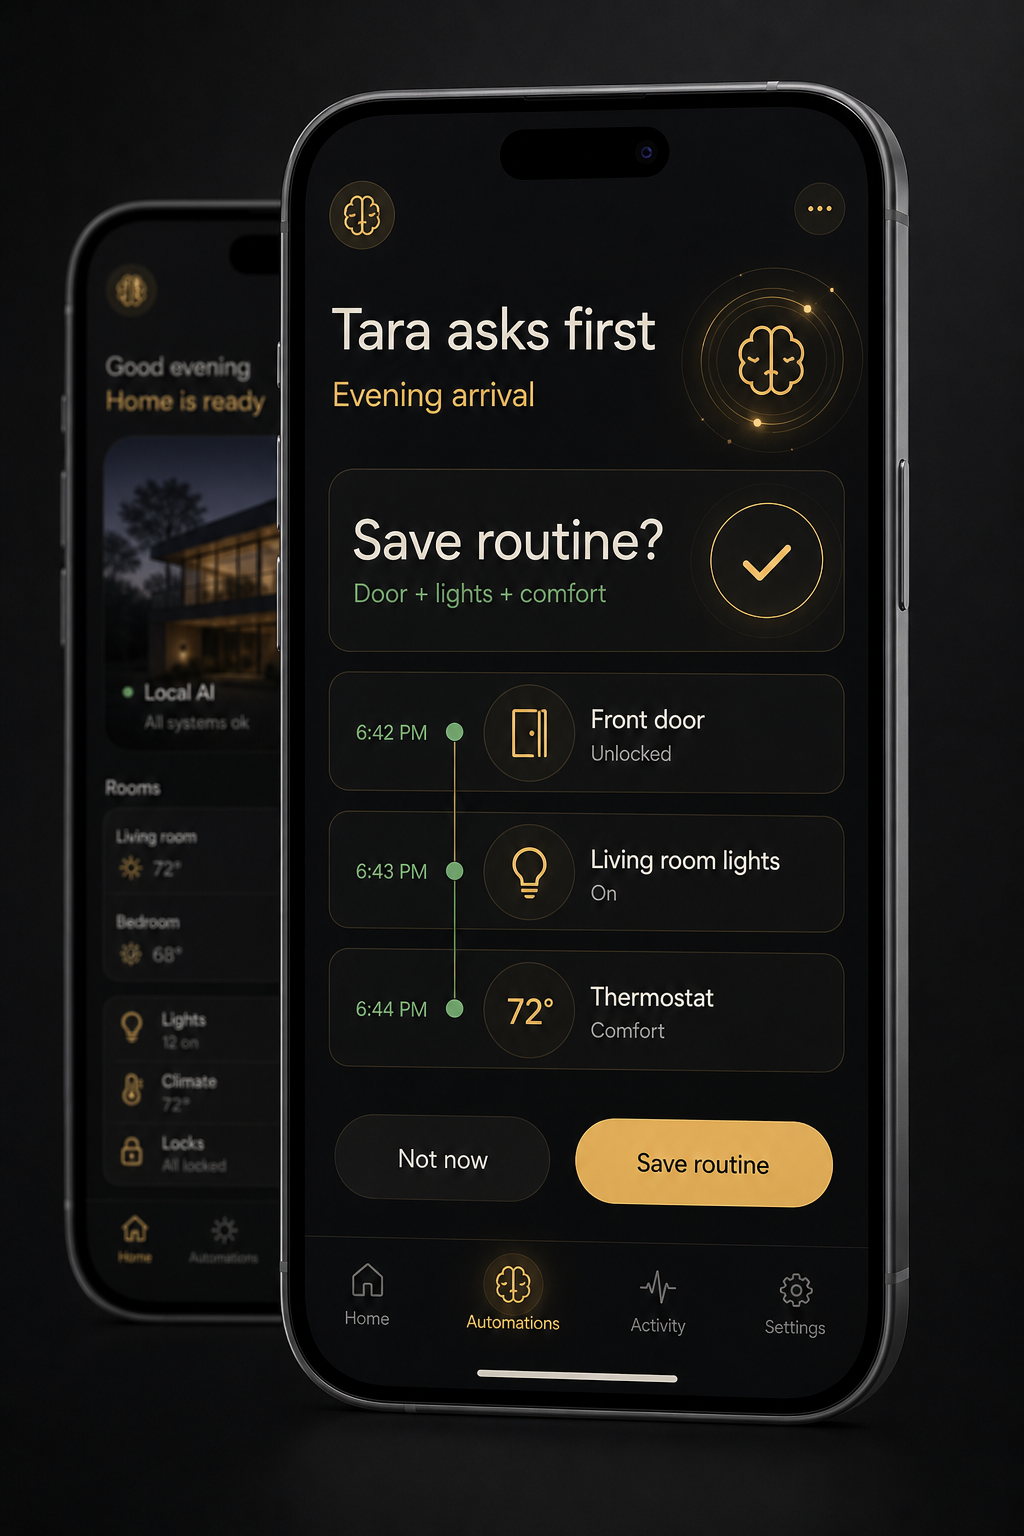
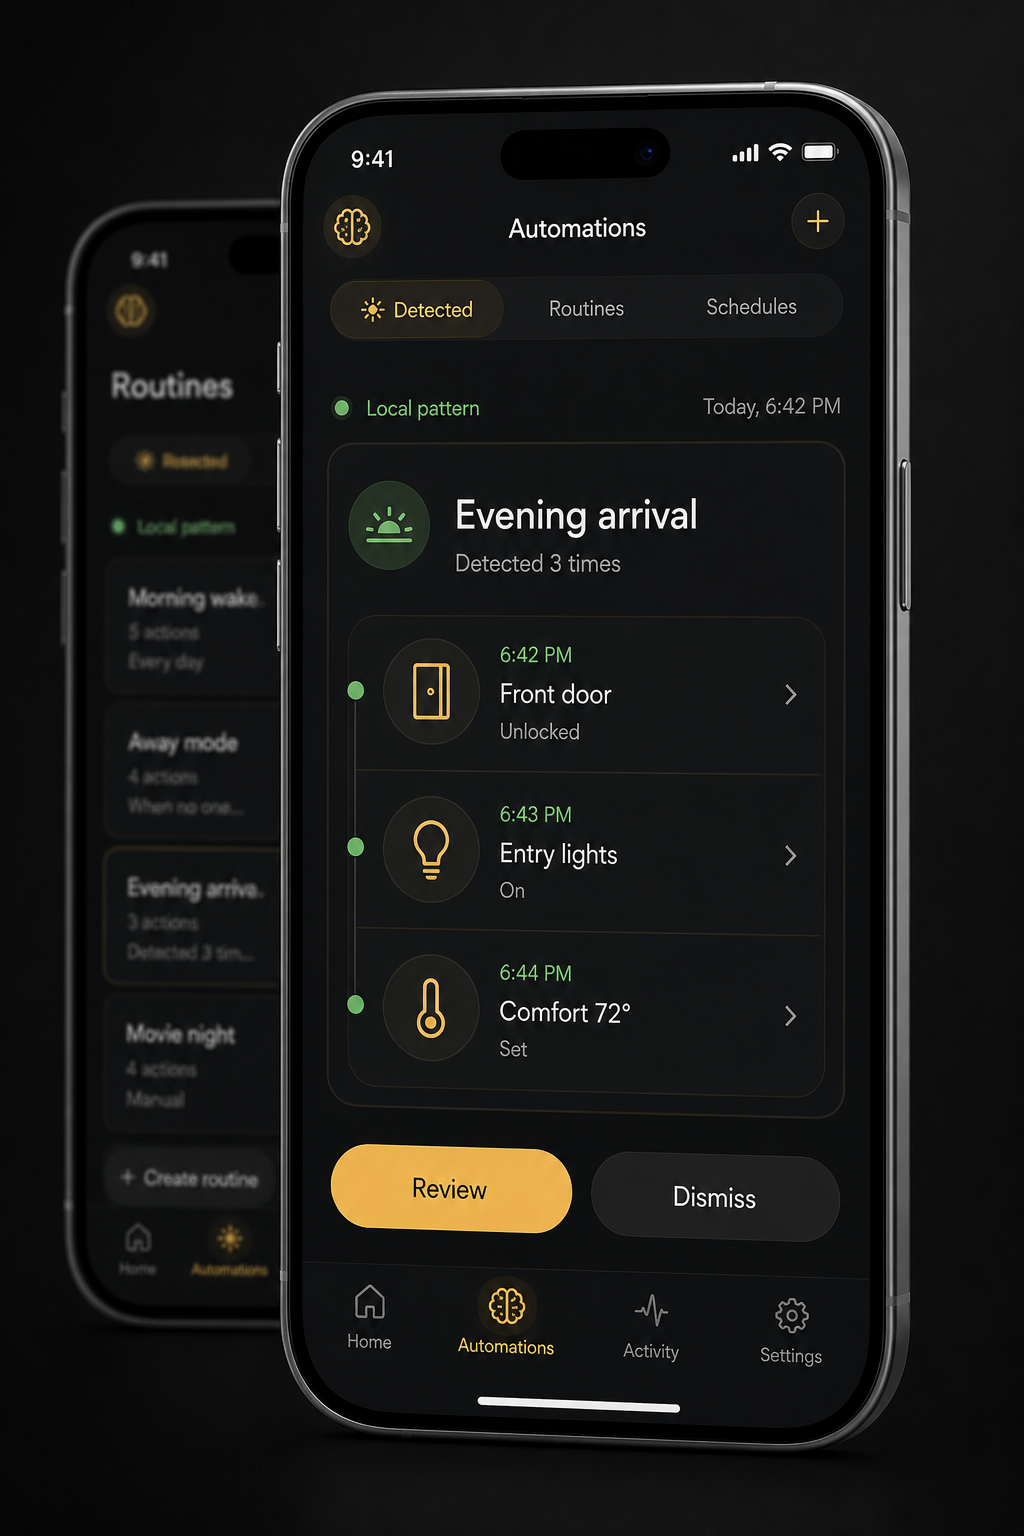
Show local AI as app screen

diff --git a/404.html b/404.html
@@ -124,8 +124,8 @@
         ]
       }
     </script>
-    <script type="module" crossorigin src="/assets/index-8O2SiTBH.js"></script>
-    <link rel="stylesheet" crossorigin href="/assets/index-Do7toBSf.css">
+    <script type="module" crossorigin src="/assets/index-D9pYh_8r.js"></script>
+    <link rel="stylesheet" crossorigin href="/assets/index-B0aLFdZK.css">
   </head>
   <body>
     <div id="root">

diff --git a/configurator/index.html b/configurator/index.html
@@ -124,8 +124,8 @@
         ]
       }
     </script>
-    <script type="module" crossorigin src="/assets/index-8O2SiTBH.js"></script>
-    <link rel="stylesheet" crossorigin href="/assets/index-Do7toBSf.css">
+    <script type="module" crossorigin src="/assets/index-D9pYh_8r.js"></script>
+    <link rel="stylesheet" crossorigin href="/assets/index-B0aLFdZK.css">
   </head>
   <body>
     <div id="root">

diff --git a/index.html b/index.html
@@ -124,8 +124,8 @@
         ]
       }
     </script>
-    <script type="module" crossorigin src="/assets/index-8O2SiTBH.js"></script>
-    <link rel="stylesheet" crossorigin href="/assets/index-Do7toBSf.css">
+    <script type="module" crossorigin src="/assets/index-D9pYh_8r.js"></script>
+    <link rel="stylesheet" crossorigin href="/assets/index-B0aLFdZK.css">
   </head>
   <body>
     <div id="root">